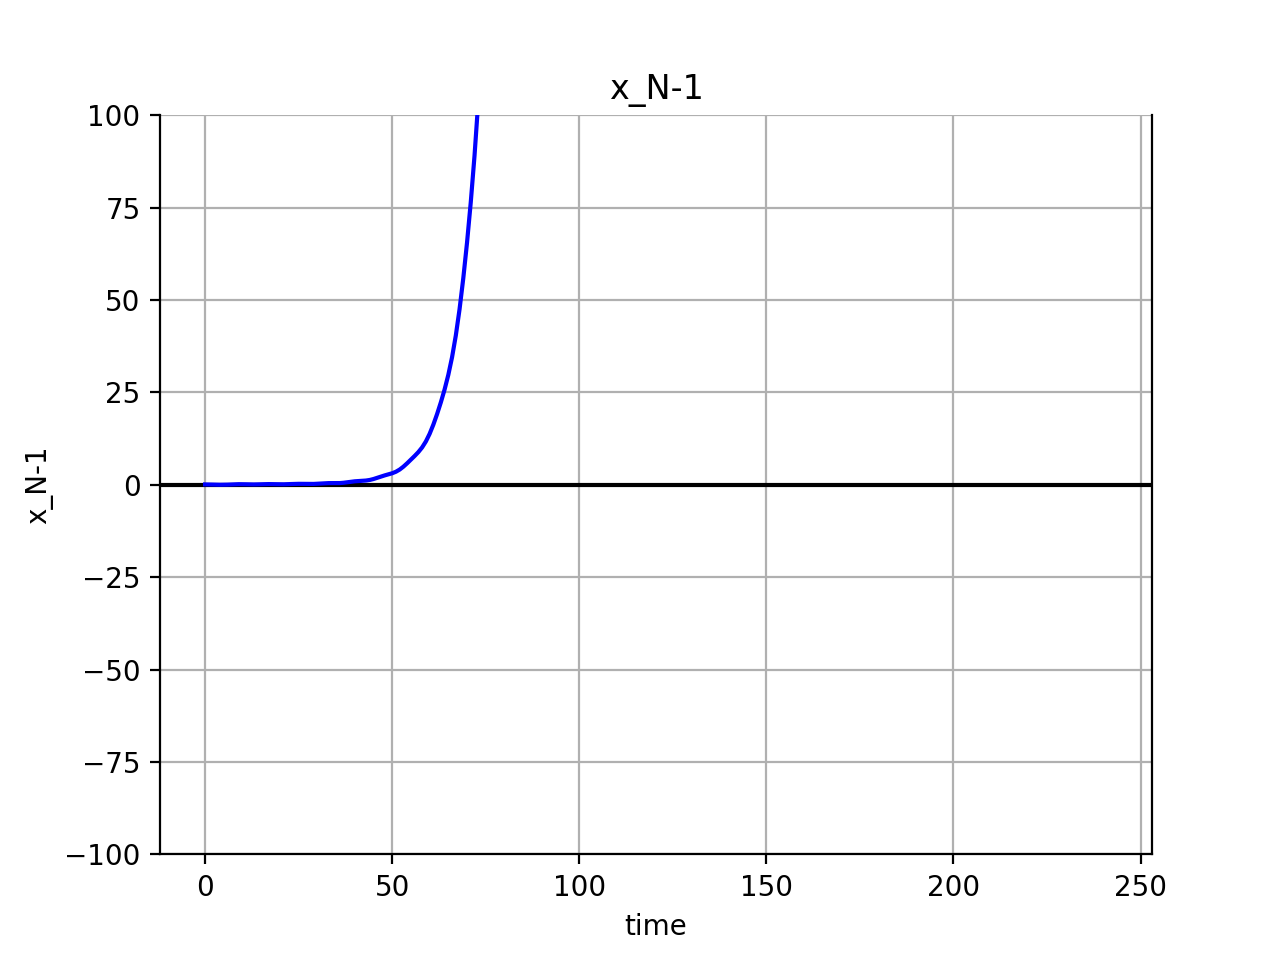
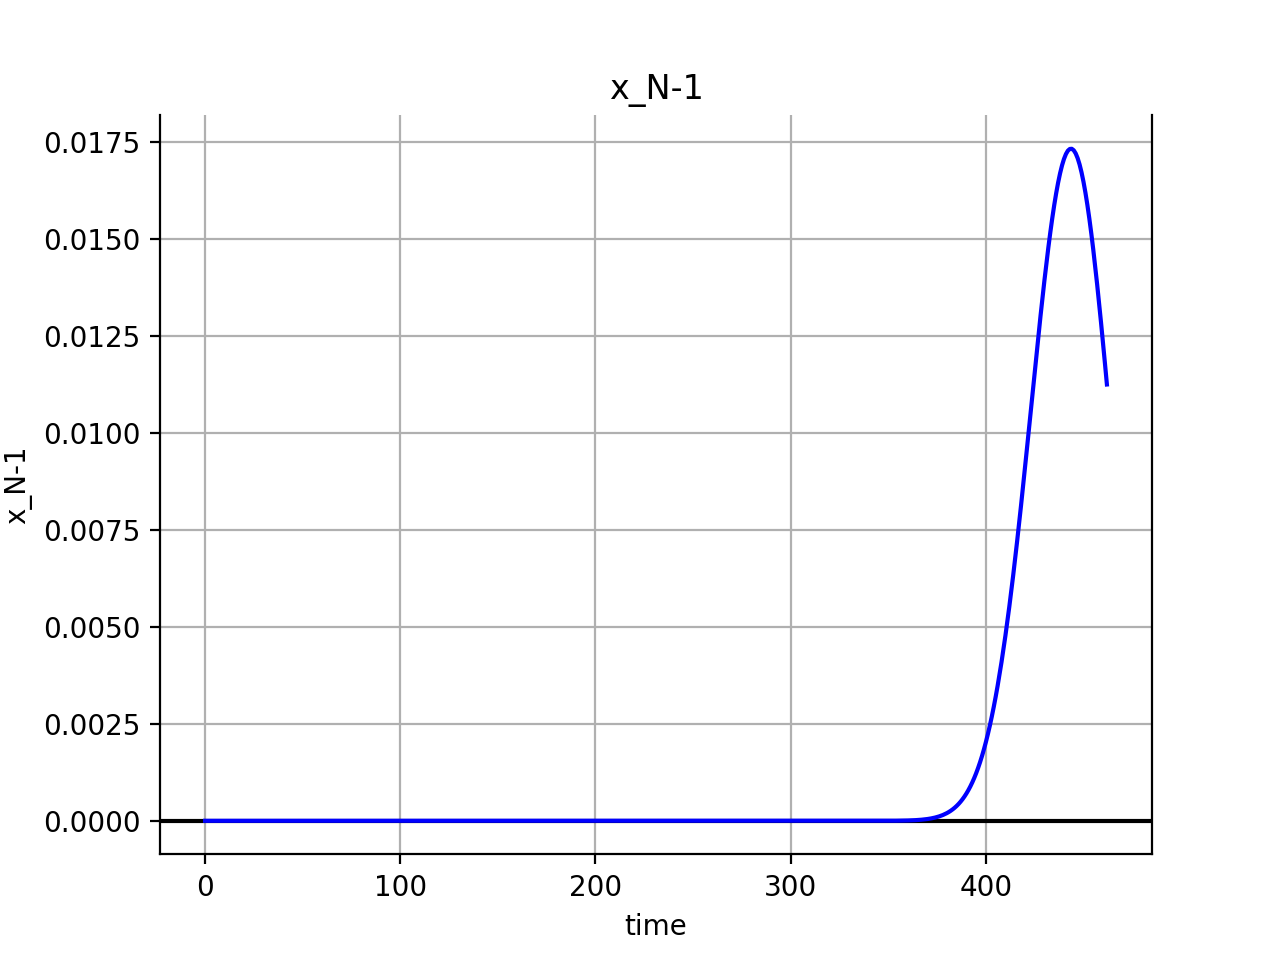
finish task3-2

diff --git a/task3/functions.py b/task3/functions.py
@@ -2,44 +2,43 @@ import numpy as np
 import math
 from math import cos, sin
 
-global k1, m1, w1
-k1 = 3
-m1 = 4
-w1 = math.sqrt(k1/m1)
+global k, m, w
+k = 3
+m = 4
+w = math.sqrt(k/m)
 
-def correct_x1(t, w):
+def correct_x(t, w):
     return cos(w*t)
 
-def correct_v1(t, w):
+def correct_v(t, w):
     return -w*sin(w*t)
 
-def differential_v1(t, x, v):
-    return -k1/m1*x
+def differential_v(t, x, v):
+    return -k/m*x
 
-def differential_x1(t, x, v):
+def differential_x(t, x, v):
     return v
 
 def euler(x0, v0, h):
     x = [x0]
     v = [v0]
     t = 0
-    e = [abs(correct_x1(t, w1) - x[-1])]
-    print( 2*math.pi/w1)
-    while t < 2*math.pi/w1:
+    e = [abs(correct_x(t, w) - x[-1])]
+    while t < 2*math.pi/w:
         t += h
-        v_next = v[-1] - h*k1/m1*x[-1]
+        v_next = v[-1] - h*k/m*x[-1]
         x_next = x[-1] + h*v[-1]
         v.append(v_next)
         x.append(x_next)
-        e.append(abs(correct_x1(t, w1) - x[-1]))
+        e.append(abs(correct_x(t, w) - x[-1]))
     return x, e
 
 def heun(x0, v0, h):
     x = [x0]
     v = [v0]
     t = 0
-    e = [abs(correct_x1(t, w) - x[-1])]
-    while t < 2*math.pi/w1:
+    e = [abs(correct_x(t, w) - x[-1])]
+    while t < 2*math.pi/w:
         t += h
         k1_v = differential_v(t, x[-1], v[-1])
         k1_x = differential_x(t, x[-1], v[-1])
@@ -52,14 +51,14 @@ def heun(x0, v0, h):
 
         v.append(v_next)
         x.append(x_next)
-        e.append(abs(correct_x1(t, w) - x[-1]))
+        e.append(abs(correct_x(t, w) - x[-1]))
     return x, e
 
 def Runge_Kutta(x0, v0, h):
     x = [x0]
     v = [v0]
     t = 0
-    e = [abs(correct_x1(t, w) - x[-1])]
+    e = [abs(correct_x(t, w) - x[-1])]
     while t < 2*math.pi/w:
         t += h
         k1_v = differential_v(t, x[-1], v[-1])
@@ -78,58 +77,32 @@ def Runge_Kutta(x0, v0, h):
         x_next = x[-1] + h/6*(k1_x + 2*k2_x + 2*k3_x + k4_x)
         v.append(v_next)
         x.append(x_next)
-        e.append(abs(correct_x1(t, w) - x[-1]))
+        e.append(abs(correct_x(t, w) - x[-1]))
     return x, e
 
+def Gill(x0, v0, h):
+    x = [x0]
+    v = [v0]
+    t = 0
+    e = [abs(correct_x(t, w) - x[-1])]
+    while t < 2*math.pi/w:
+        t += h
+        k1_v = differential_v(t, x[-1], v[-1])
+        k1_x = differential_x(t, x[-1], v[-1])
 
-####### task2 ########
+        k2_v = differential_v(t+h/2, x[-1] + h/2*k1_x, v[-1] + h/2*k1_v)
+        k2_x = differential_x(t+h/2, x[-1] + h/2*k1_x, v[-1]+ h/2*k1_v)
 
-global N2, k2, m2, Td2, h2
-N2 = 100
-k2 = 3
-m2 = 4
-Td2 = 50
-h2 = 0.5
+        k3_v = differential_v(t+h/2, x[-1] + h*((1/math.sqrt(2)-1/2)*k1_x + (1-1/math.sqrt(2))*k2_x), v[-1] + h*((1/math.sqrt(2)-1/2)*k1_v + (1-1/math.sqrt(2))*k2_v))
+        k3_x = differential_x(t+h/2, x[-1] + h*((1/math.sqrt(2)-1/2)*k1_x + (1-1/math.sqrt(2))*k2_x), v[-1] + h*((1/math.sqrt(2)-1/2)*k1_v + (1-1/math.sqrt(2))*k2_v))
 
-def D(t):
-    if 0 <= t <= Td2:
-        return 0.1
-    else:
-        return 0 
+        k4_v = differential_v(t+h, x[-1] + h*(-1/math.sqrt(2)*k2_x+(1+1/math.sqrt(2))*k3_x), v[-1] + h*(-1/math.sqrt(2)*k2_v+(1+1/math.sqrt(2))*k3_v))
+        k4_x = differential_x(t+h, x[-1] + h*(-1/math.sqrt(2)*k2_x+(1+1/math.sqrt(2))*k3_x), v[-1] + h*(-1/math.sqrt(2)*k2_v+(1+1/math.sqrt(2))*k3_v))
 
-def differential_x2(t, x, v, i):
-    return v[i]
-
-# 境界条件：boundary=False -> 自由端、boundary=True: -> 固定端
-def differential_v2(t, x, v, i, boundary=False):
-    if i == 0:
-        return k2/m2*(D(t)-2*x[0] + x[1])
-    elif 1 <= i <= N2-2:
-        return k2/m2*(x[i-1] - 2*x[i] + x[i+1])
-    else:
-        if boundary:
-            return k2/m2*(x[N2-2] - 2*x[N2-1])
-        else:
-            return k2/m2*(x[N2-2] - x[N2-1])
-
-def heun2(x, v, t, boundary):
-    temp_x = x.copy()
-    temp_v = v.copy()
-    for i in range(N2):
-        # k1_v = differential_v2(t, x, v, i, boundary)
-        # k1_x = differential_x2(t, x, v, i)
-
-        # k2_v = differential_v2(t+h2, x + h2*k1_x, v + h2*k1_v, i, boundary)
-        # k2_x = differential_x2(t+h2, x + h2*k1_x, v + h2*k1_v, i)
-
-        # v_next = v[i] + h2/2*(k1_v + k2_v)
-        # x_next = x[i] + h2/2*(k1_x + k2_x)
-
-        v_next = v[i] + h2*differential_v2(t, temp_x, temp_v, i, boundary)
-        x_next = x[i] + h2*differential_x2(t, temp_x, temp_v, i)
-
-        v[i] = v_next
-        x[i] = x_next
-    # print(x)
-    # input()
-    return x, v
+        v_next = v[-1] + h*(1/6*k1_v + 1/3*(1-1/math.sqrt(2))*k2_v + 1/3*(1-1/math.sqrt(2))*k3_v + 1/6*k4_v)
+        x_next = x[-1] + h*(1/6*k1_x + 1/3*(1-1/math.sqrt(2))*k2_x + 1/3*(1-1/math.sqrt(2))*k3_x + 1/6*k4_x)
+        v.append(v_next)
+        x.append(x_next)
+        e.append(abs(correct_x(t, w) - x[-1]))
+    
+    return x, e

diff --git a/task3/task2.py b/task3/task2.py
@@ -1,32 +1,131 @@
 import math
 from math import cos, sin
 from visualize import *
-from functions import *
 
-global N, k, m, Td, h
+global N, k, m, w, Td, h
 N = 100
 k = 3
 m = 4
+w = math.sqrt(k/m)
 Td = 50
+# hを小さくしないとeulerやheunはうまくできない
+# heun: 0.1
+# euler: 0.01
 h = 0.5
+
+def D(t):
+    if 0 <= t <= Td:
+        return 0.1
+    else:
+        return 0 
+
+# def differential_x(t, x, v, i):
+#     return v[i]
+
+def diff_x(t, x, v):
+    return v
+
+# 境界条件：boundary=False -> 自由端、boundary=True: -> 固定端
+# def differential_v(t, x, v, i, boundary=False):
+#     if i == 0:
+#         return w**2*(D(t)-2*x[0] + x[1])
+#     elif 1 <= i <= N-2:
+#         return w**2*(x[i-1] - 2*x[i] + x[i+1])
+#     else:
+#         if boundary:
+#             return w**2*(x[N-2] - 2*x[N-1])
+#         else:
+#             return w**2*(x[N-2] - x[N-1])
+
+def diff_v(t, x, v, boundary):
+    differential_v = np.zeros(N, dtype=float)
+    for i in range(N):
+        if i == 0:
+            differential_v[i] = w**2*(D(t)-2*x[0] + x[1])
+        elif 1 <= i <= N-2:
+            differential_v[i] = w**2*(x[i-1] - 2*x[i] + x[i+1])
+        else:
+            if boundary:
+                differential_v[i] = w**2*(x[N-2] - 2*x[N-1])
+            else:
+                differential_v[i] = w**2*(x[N-2] - x[N-1])
+    return differential_v
+
+def euler(x, v, t, boundary):
+    result_x = x + h*diff_x(t, x, v)
+    result_v = v + h*diff_v(t, x, v, boundary)
+
+    return result_x, result_v
+
+def heun(x, v, t, boundary):
+    k1_v = diff_v(t, x, v, boundary)
+    k1_x = diff_x(t, x, v)
+
+    k2_v = diff_v(t+h, x + h*k1_x, v + h*k1_v, boundary)
+    k2_x = diff_x(t+h, x + h*k1_x, v + h*k1_v)
+
+    next_v = v + h/2*(k1_v + k2_v)
+    next_x = x + h/2*(k1_x + k2_x)
+
+    return next_x, next_v
+
+def Runge_Kutta(x, v, t, boundary):
+    k1_v = diff_v(t, x, v, boundary)
+    k1_x = diff_x(t, x, v)
+
+    k2_v = diff_v(t+h/2, x + h/2*k1_x, v + h/2*k1_v, boundary)
+    k2_x = diff_x(t+h/2, x + h/2*k1_x, v + h/2*k1_v)
+
+    k3_v = diff_v(t+h/2, x + h/2*k2_x, v + h/2*k2_v, boundary)
+    k3_x = diff_x(t+h/2, x + h/2*k2_x, v + h/2*k2_v)
+
+    k4_v = diff_v(t+h, x + h*k3_x, v + h*k3_v, boundary)
+    k4_x = diff_x(t+h, x + h*k3_x, v + h*k3_v)
+
+    next_v = v + h/6*(k1_v + 2*k2_v + 2*k3_v + k4_v)
+    next_x = x + h/6*(k1_x + 2*k2_x + 2*k3_x + k4_x)
+    
+    return next_x, next_v
+
+def Gill(x, v, t, boundary):
+    k1_v = diff_v(t, x, v, boundary)
+    k1_x = diff_x(t, x, v)
+
+    k2_v = diff_v(t+h/2, x + h/2*k1_x, v + h/2*k1_v, boundary)
+    k2_x = diff_x(t+h/2, x + h/2*k1_x, v + h/2*k1_v)
+
+    k3_v = diff_v(t+h/2, x + h*((1/math.sqrt(2)-1/2)*k1_x + (1-1/math.sqrt(2))*k2_x), v + h*((1/math.sqrt(2)-1/2)*k1_v + (1-1/math.sqrt(2))*k2_v), boundary)
+    k3_x = diff_x(t+h/2, x + h*((1/math.sqrt(2)-1/2)*k1_x + (1-1/math.sqrt(2))*k2_x), v + h*((1/math.sqrt(2)-1/2)*k1_v + (1-1/math.sqrt(2))*k2_v))
+
+    k4_v = diff_v(t+h, x + h*(-1/math.sqrt(2)*k2_x+(1+1/math.sqrt(2))*k3_x), v + h*(-1/math.sqrt(2)*k2_v+(1+1/math.sqrt(2))*k3_v), boundary)
+    k4_x = diff_x(t+h, x + h*(-1/math.sqrt(2)*k2_x+(1+1/math.sqrt(2))*k3_x), v + h*(-1/math.sqrt(2)*k2_v+(1+1/math.sqrt(2))*k3_v))
+
+    next_v = v + h/6*(k1_v + (2-math.sqrt(2))*k2_v + (2-math.sqrt(2))*k3_v + k4_v)
+    next_x = x + h/6*(k1_x + (2-math.sqrt(2))*k2_x + (2-math.sqrt(2))*k3_x + k4_x)
+    
+    return next_x, next_v
 
 def main(boundary=True):
     t = 0
-    x = np.zeros(N, dtype='float')
-    v = np.zeros(N, dtype='float')
-    x[0] = 0.1
-    x_N = [x.copy()]
+    x = np.zeros(N, dtype=float)
+    v = np.zeros(N, dtype=float)
+    x_list = [x.copy()]
+    x_N = [x[-1]]
     T = N*math.sqrt(m/k)
-    while t <= T*3/2:
+    while t <= T*2:
         t += h
-        x, v = heun2(x, v, t, boundary)
-        x_N.append(x.copy())
-    # x_axis = np.array([i for i in range((int(T)+1)*2+10)])
-    # visualize(x_axis, x_N, 'time', 'x_N-1', 'x_N-1', x_ticks=False, ylim=[-100, 100])
+        # x, v = euler(x, v, t, boundary)
+        # x, v = heun(x, v, t, boundary)
+        # x, v = Runge_Kutta(x, v, t, boundary)
+        x, v = Gill(x, v, t, boundary)
+        x_list.append(x.copy())
+        x_N.append(x[-1])
+    x_axis = np.array([i for i in range(len(x_list))])
+    visualize(x_axis, x_N, 'time', 'x_N-1', 'x_N-1', x_ticks=False)
 
     x_axis = [i for i in range(N)]
-    anime(x_axis, x_N)
+    anime(x_axis, x_list, 'Gill', True)
 
 
 if __name__ == '__main__':
-    main(False)
+    main(True)

diff --git a/task3/visualize.py b/task3/visualize.py
@@ -49,13 +49,14 @@ def visualize(x, y, xlabel, ylabel, title, x_ticks=True, ylim=None, label=None, 
     os.makedirs('task3/img', exist_ok=True)
     fig.savefig(f'task3/img/{title}.png')
 
-def anime(x, y):
+def anime(x, y, title, save_gif=False):
     # fig, axオブジェクトを作成
     fig, ax = plt.subplots()
+    plt.title(title)
 
     # グラフのリスト作成
     ims=[]
-    for i in range(len(y)): 
+    for i in range(0, len(y), 5): 
         # y = np.sin(x + 2*np.pi*(i/10))
         im = ax.plot(x, y[i], color='b')
         # グラフをリストに加える
@@ -66,11 +67,13 @@ def anime(x, y):
     ax.set_ylabel(r"$y$", fontsize=15)
     # グラフの範囲を設定
     # ax.set_xlim([0, 100])
-    ax.set_ylim([-100, 100]) 
+    # ax.set_ylim([-0.1, 0.1]) 
 
     # ArtistAnimationにfigオブジェクトとimsを代入してアニメーションを作成
-    anim = animation.ArtistAnimation(fig, ims, interval=10)
+    anim = animation.ArtistAnimation(fig, ims, interval=5)
     plt.show()
+    if save_gif:
+        anim.save(f'task3/img/{title}.gif', writer='pillow', fps=30) # fpsはデフォルトの5
 
 # # 反復計算法のそれぞれについて計算回数と誤差の関係を一つのグラフに重ねて可視化
 # def visualization_convergence(jacobi_err, gauss_err, sor_err, title, ylim=None):

diff --git a/task3/task1.py b/task3/task1.py
@@ -80,9 +80,32 @@ def task4():
     title = 'The change in maximum error corresponding to the change h (Runge Kutta)'
     visualize(x_axis, logEx, 'p', 'log2 Ex', title, label='log2 Ex', least_square_flag=True, lrange=[0, 10])
 
+def extra():
+    h = (2*math.pi)/(64*w)
+    x, e = Gill(1, 0, h)
+    x_axis = [i for i in range(65)]
+    xc_t = x[:-1]
+    error = e[:-1]
+    visualize(x_axis, xc_t, 'time', 'x_c(t)', 'Runge Kutta Gill method')
+    visualize(x_axis, error, 'time', 'error', 'Runge Kutta Gill error')
+
+    h_list = [2*math.pi/w * 2**(-p) for p in range(2, 21)]
+    error_list = []
+
+    for h in h_list:
+        x, e = Gill(1, 0, h)
+        e_max = max(e)
+        error_list.append(e_max)
+    
+    x_axis = [p for p in range(2, 21)]
+    logEx = [math.log2(error) for error in error_list]
+    title = 'The change in maximum error corresponding to the change h (Runge Kutta Gill)'
+    visualize(x_axis, logEx, 'p', 'log2 Ex', title, label='log2 Ex', least_square_flag=False, lrange=[0, 10])
+
 
 if __name__ == '__main__':
     # task1()
-    task2()
+    # task2()
     # task3()
     # task4()
+    extra()
